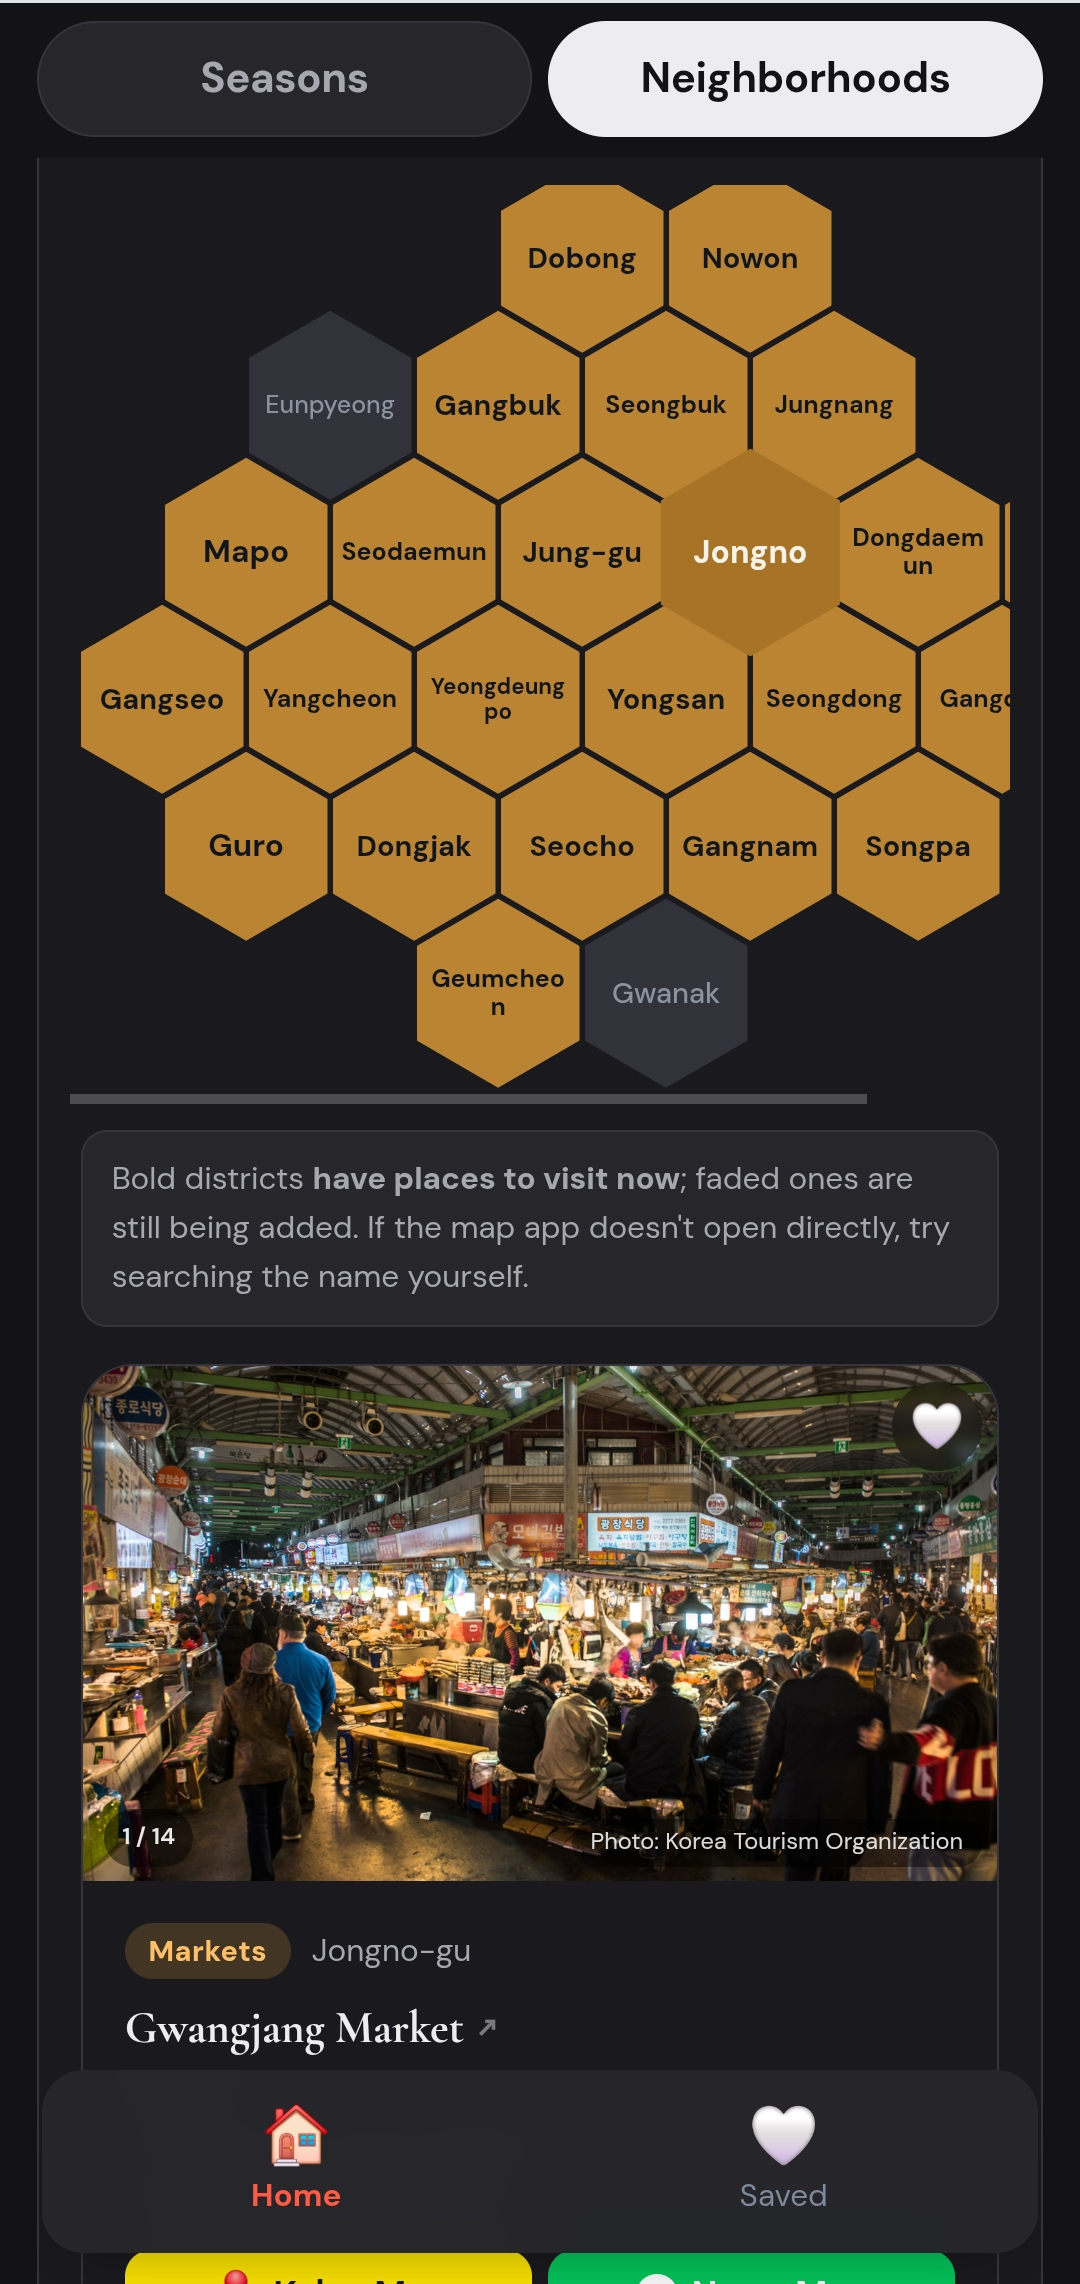
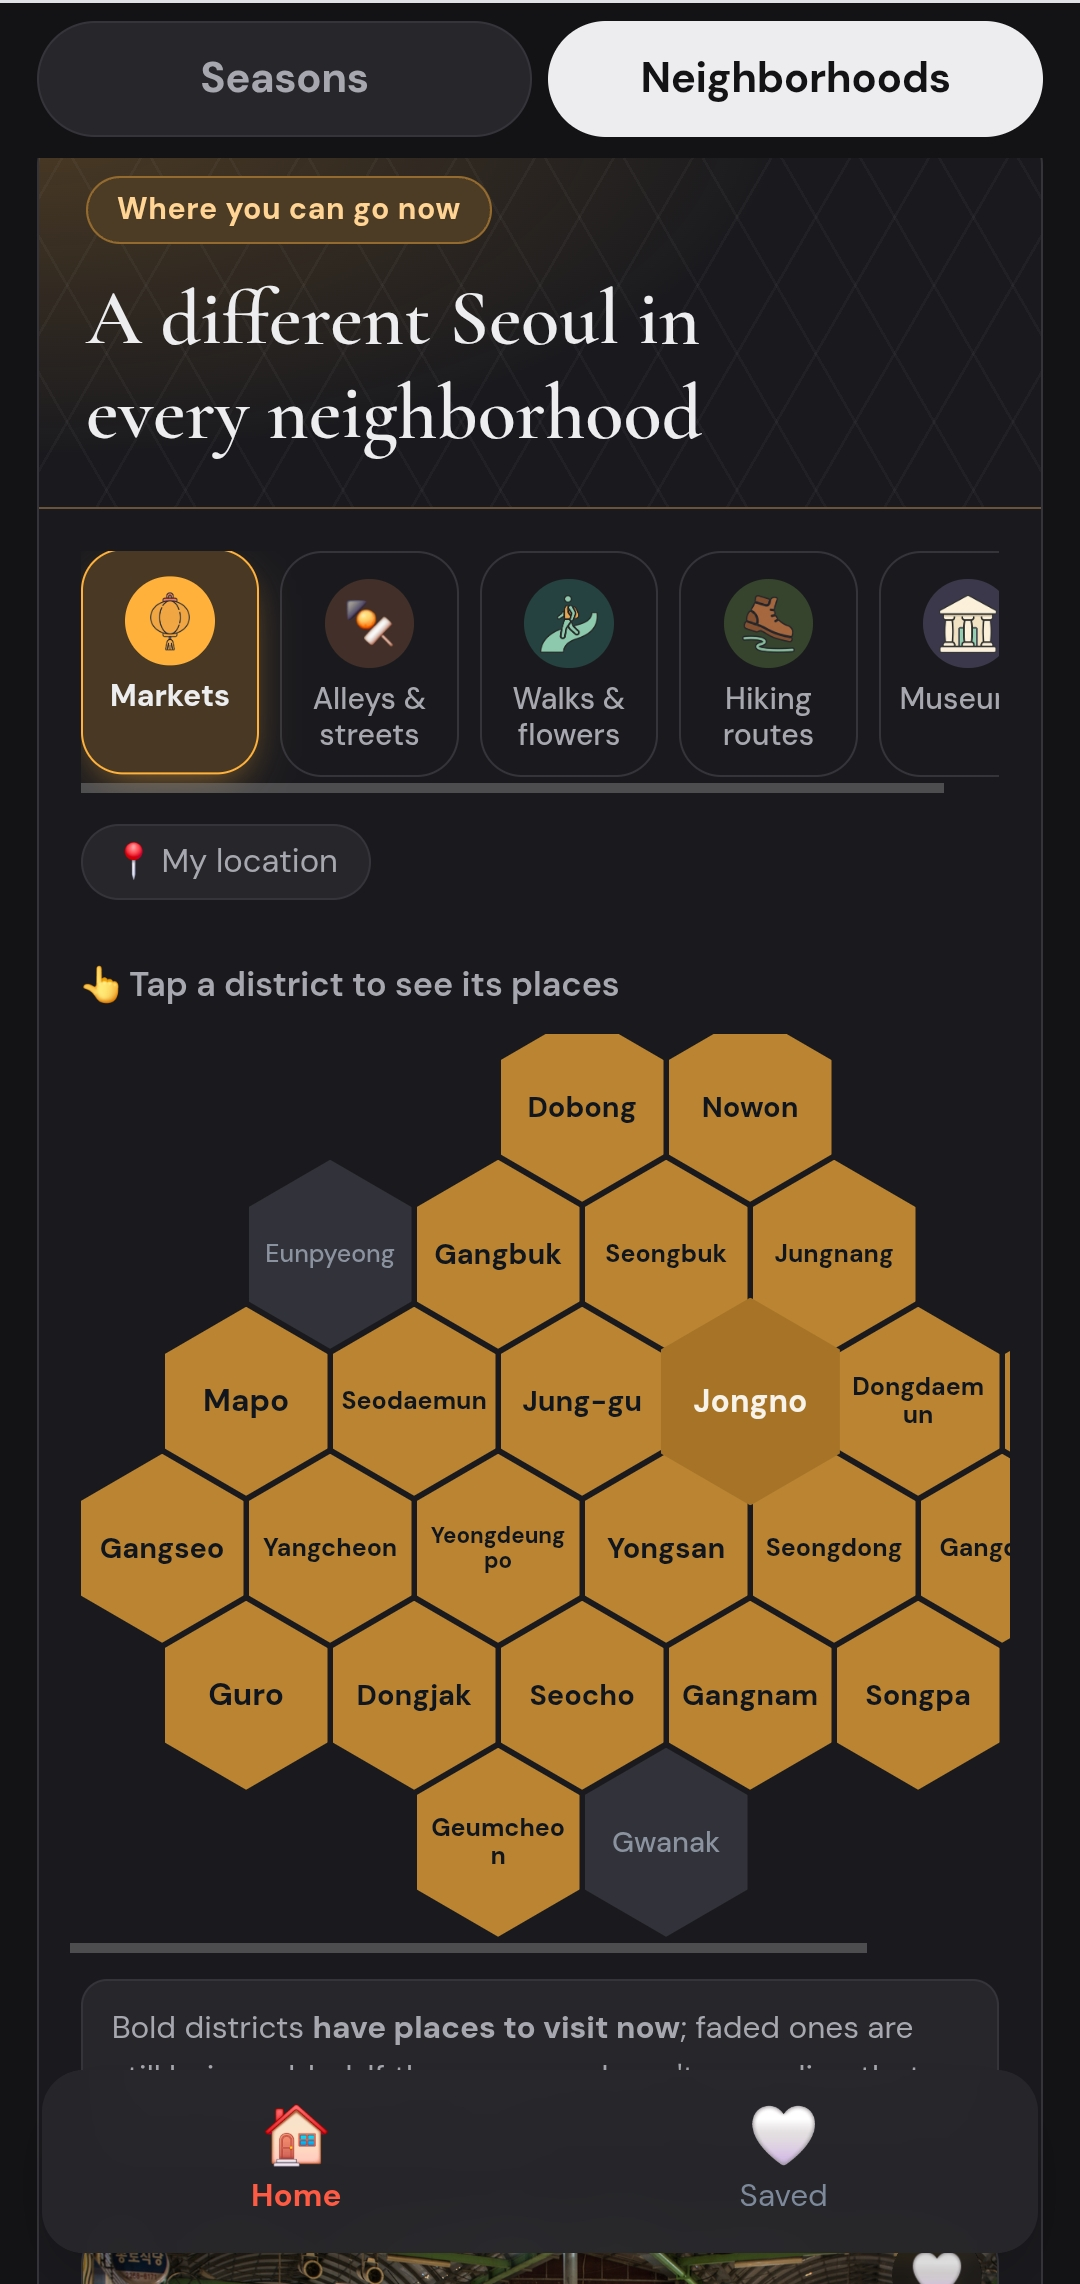
📸 벌집 지도 사진을 겹침 없는 것으로 바꾼다
「Pick another district」가 카드 단추 위에 겹쳐 보이던 자리 대신,
겹치지 않은 자리에서 다시 찍은 것으로 교체했다. 벌집 전체와
Jongno가 선택된 상태가 깨끗하게 보인다.

그리고 홍보 사진 규칙을 하나 적었다 — **주소를 넣지 않는다.**
지도 연결이 되는 증거로 길찾기 화면을 찍어 주셨는데, 출발지에
사장님이 계신 곳의 지번 주소가 찍혀 있었다. 저장소는 누구나 볼 수 있고
한 번 올라간 것은 지워도 기록에 남으므로 넣지 않았다.
지도 연결을 보여 주려면 도착지만 나오게 찍거나 3번 사진(카드)을 쓴다.

Claude-Session: https://claude.ai/code/session_01YEj2XhUSjuzGxBnCjkxKiM

diff --git a/docs/영어-소개글.md b/docs/영어-소개글.md
@@ -147,6 +147,21 @@ happy to share it if that is useful.
 
 **붙이는 순서**: 1 → 7 → 3. 세 장이면 충분하다. 많이 붙이면 오히려 안 본다.
 
-⚠ 1·4번 사진에서 **「Pick another district」가 카드 단추 위에 겹쳐 보인다.**
+⚠ 4번 사진에서 **「Pick another district」가 카드 단추 위에 겹쳐 보인다.**
 눌리기는 다 눌린다(2026-09-06에 40군데 스크롤 위치에서 재 봤다 — 막힌 단추 0개).
-다만 **보기에 걸리므로** 잘라내거나, 겹치지 않은 자리에서 다시 찍는 편이 낫다.
+보기에 걸릴 뿐이다. **1번은 겹치지 않은 자리에서 다시 찍어 교체했다**(2026-09-06).
+
+---
+
+## 🚨 홍보 사진에 넣으면 안 되는 것 — 주소
+
+2026-09-06에 사장님이 「네이버지도」 단추가 실제로 되는 걸 보여 주시려고
+**길찾기 화면**을 찍어 주셨다. 지도 연결이 되는 증거로는 아주 좋았지만
+**저장소에 넣지 않았다** — 출발지에 **사장님이 계신 곳의 지번 주소**가 찍혀 있었다.
+
+- 이 저장소는 **누구나 볼 수 있다.** 한 번 올라간 것은 지워도 기록에 남는다.
+- 홍보 글에 붙일 때도 마찬가지다. 관심을 받는다는 건 **모르는 사람이 본다**는 뜻이다.
+
+✅ 지도 연결이 된다는 걸 보여 주고 싶으면:
+**출발지를 지우고** 도착지(광장시장)만 나오게 찍거나, 길찾기 화면 대신
+**앱 안의 카카오맵·네이버지도 단추**가 보이는 카드(3번 사진)를 쓴다.
